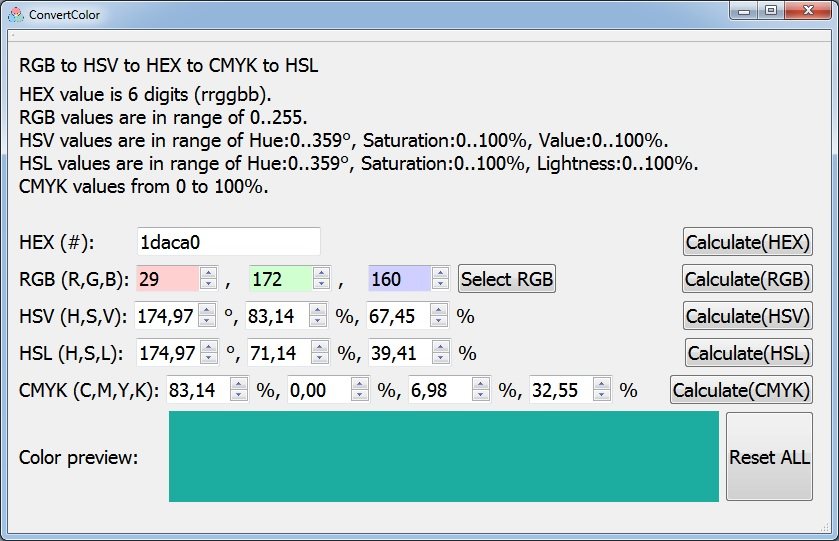
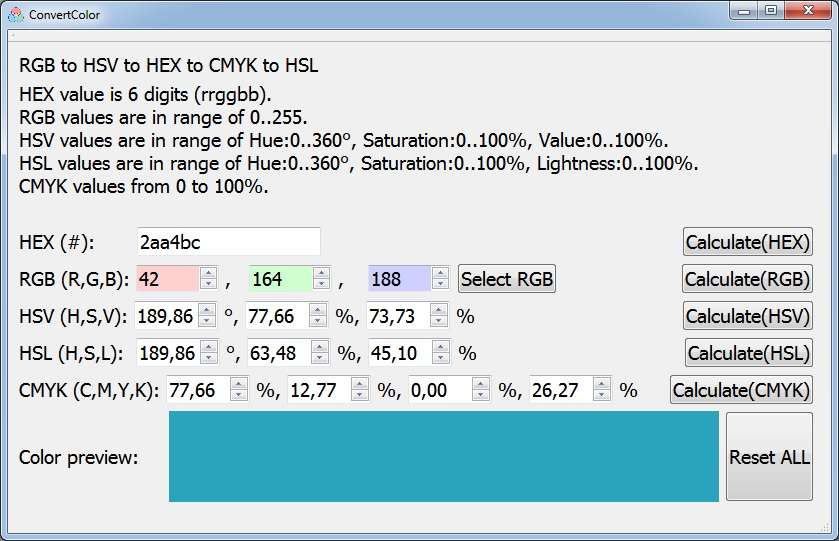
update

diff --git a/README.md b/README.md
@@ -4,3 +4,9 @@ convert RGB to HSV to HEX to CMYK to HSL
 # Preview
 ![alt text](https://github.com/den0011/convert_color/raw/main/image/convert.jpg)
 
+# Values are in range:
+HEX value is 6 digits (rrggbb).
+RGB values are in range of 0..255.
+HSV values are in range of Hue:0..360°, Saturation:0..100%, Value:0..100%.
+HSL values are in range of Hue:0..360°, Saturation:0..100%, Lightness:0..100%.
+CMYK values from 0 to 100%.
